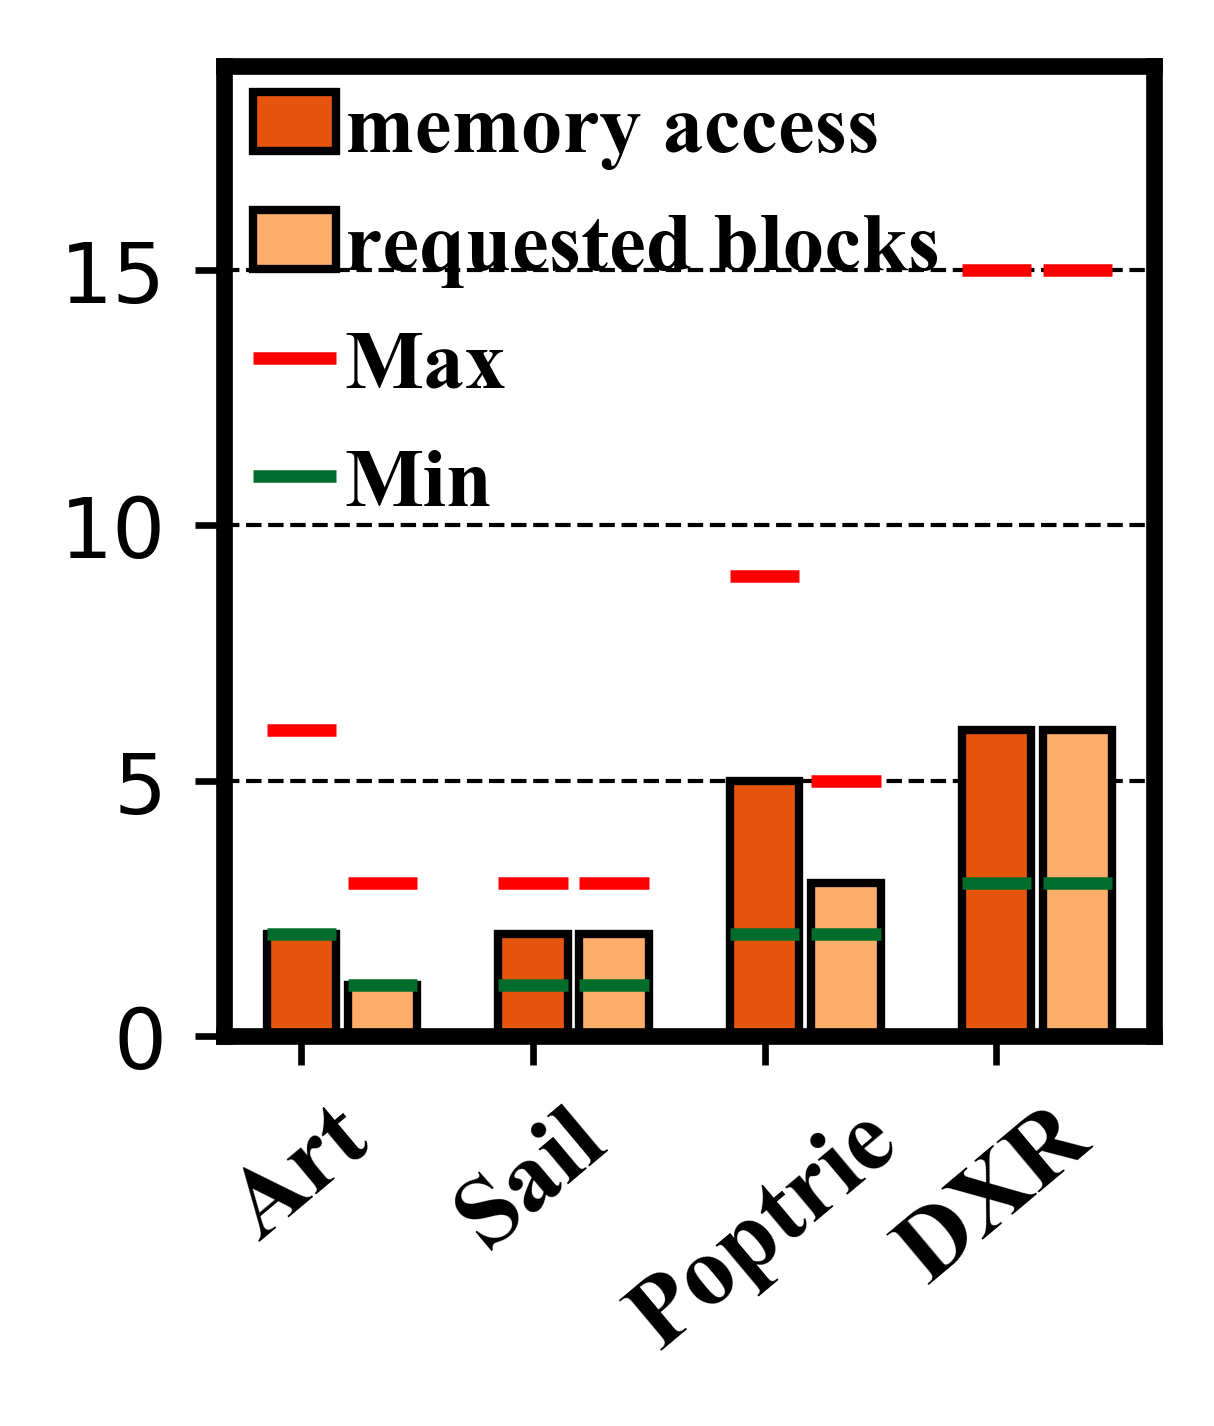
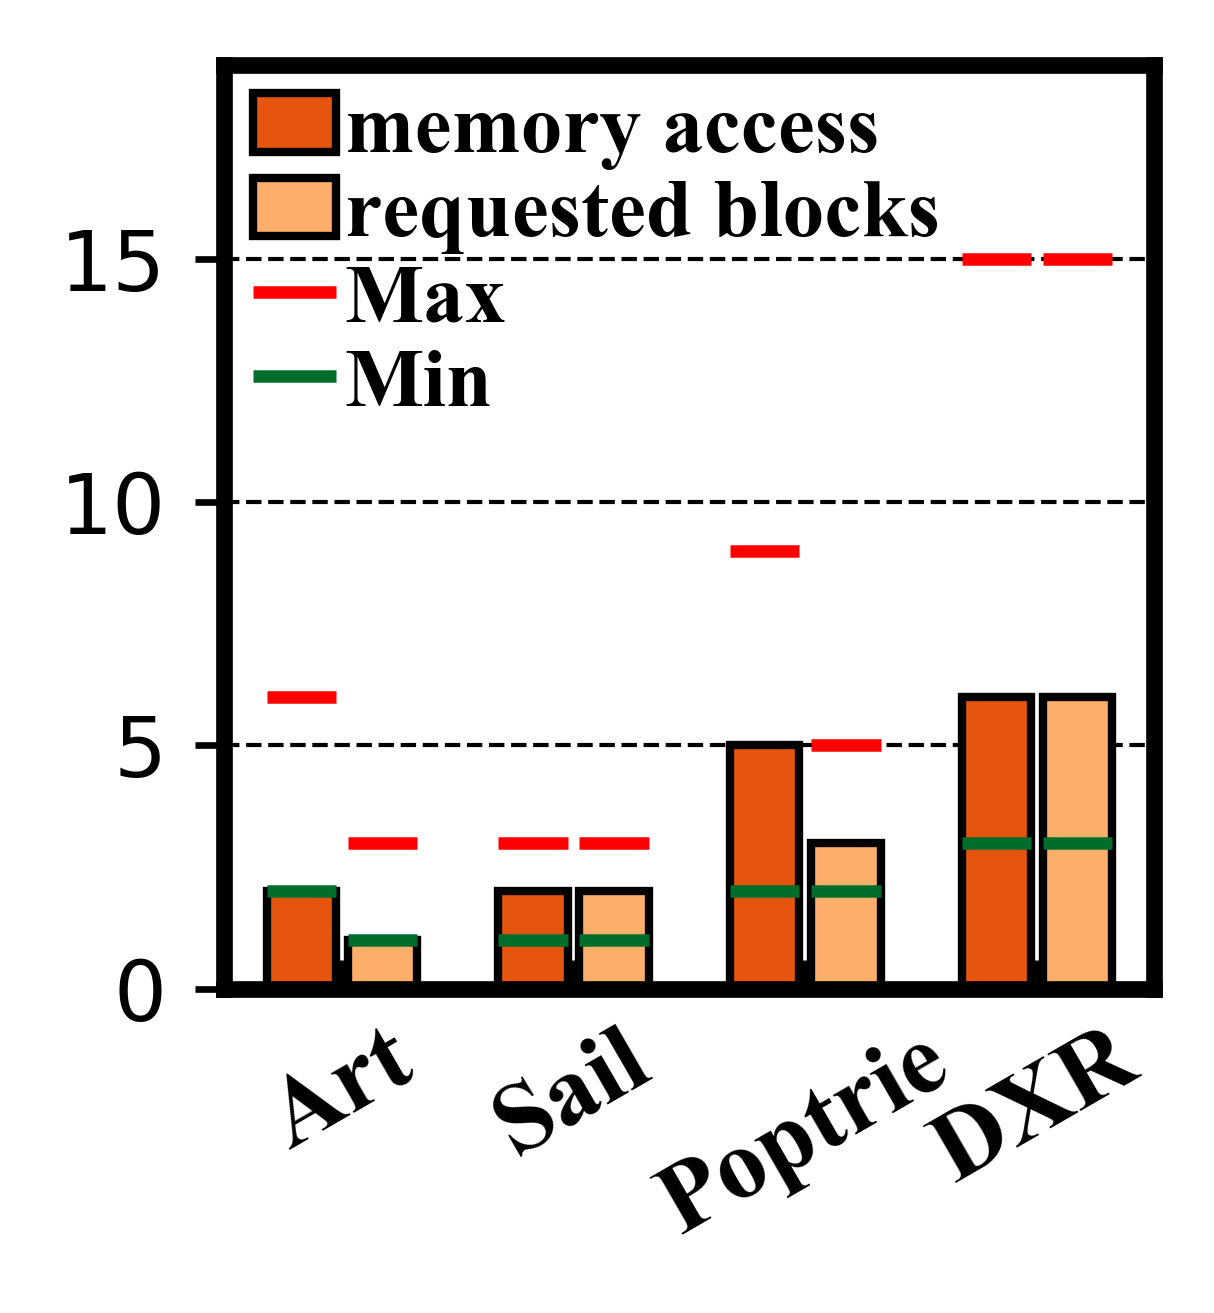
更新plot模块

diff --git a/plot.py b/plot.py
@@ -6,6 +6,7 @@
 import matplotlib.pyplot as plt
 from font import Font
 import matplotlib
+from matplotlib.pyplot import MultipleLocator
 
 pdf_base_dir = 'result/'  # pdf保存的目录
 picture_base_dir = 'example-picture/'  # png格式保存的目录
@@ -52,8 +53,8 @@ class Plot:
         return f
 
     @staticmethod
-    def plot_text(x, y, text, fontsize=20):
-        plt.text(x, y, text, fontsize=fontsize)
+    def plot_text(x, y, text, fontsize=20, rotation=None, wrap=False):
+        plt.text(x, y, text, fontsize=fontsize, rotation=rotation, wrap=wrap)
 
     @staticmethod
     def plot_hlines(y_data, x_start, x_end, colors='black', lienstyles='-', label=None):
@@ -85,29 +86,104 @@ class Plot:
 
     @staticmethod
     def plot_legend(handle, labels, ncol, bbox_to_anchor, loc='best', font_size=12, columnspacing=0.1,
-                    handlelength=1, handletextpad=0.1):
+                    handlelength=1, handletextpad=0.1, labelspacing=None):
+        """
+        绘制图例。
+        参考链接：
+        https://matplotlib.org/api/_as_gen/matplotlib.pyplot.legend.html?highlight=legend#matplotlib.pyplot.legend
+        :param handle: 图例的句柄。
+        :param labels: 显示的标签。这里显示标签的个数应该和句柄的格式是一样的。
+        :param ncol: 显示的列数。
+        :param bbox_to_anchor: 将图例定下锚点。也就是相对位置。传入(x,y)
+        :param loc: 图例显示的大概位置。默认为'best',也就是自动选择。可以选择'upper right'/'upper left'/'lower right'等值。
+        :param font_size: 图例字体大小。
+        :param columnspacing: 每列间隔大小。 适用于多列的情况。
+        :param handlelength: 句柄的长度大小。
+        :param handletextpad: 句柄和标签之间的间隔大小。
+        :param labelspacing: 每行间隔的大小。适用于多行的情况
+        :return:
+        """
         plt.legend(handle, labels, bbox_to_anchor=bbox_to_anchor, ncol=ncol, loc=loc, prop=Font.font(font_size),
                    frameon=False,
-                   columnspacing=columnspacing, handlelength=handlelength, handletextpad=handletextpad)
+                   columnspacing=columnspacing, handlelength=handlelength, handletextpad=handletextpad,
+                   labelspacing=labelspacing)
 
     @staticmethod
     def plot_grid(axis='y', color='black', linewidth=0.5, linestyle='--'):
         plt.grid(axis=axis, color=color, linewidth=linewidth, linestyle=linestyle)
 
+    @staticmethod
+    def plot_xaxis_invisible():
+        """
+        x轴坐标轴不可见。
+        :return:
+        """
+        frame = plt.gca()
+        frame.axes.get_xaxis().set_visible(False)
+
+    @staticmethod
+    def plot_yaxis_invisible():
+        """
+        y轴坐标轴不可见。
+        :return:
+        """
+        frame = plt.gca()
+        frame.axes.get_yaxis().set_visible(False)
+
 
 class Save:
     @staticmethod
     def save_to_pdf(filename, dpi=600):
+        """
+        保存为pdf。
+        :param filename: 文件名。不需要带格式后缀，直接输入文件名即可。
+        :param dpi: 显示的dpi，默认600.
+        :return:
+        """
         plt.savefig(pdf_base_dir + filename + '.pdf', dpi=dpi, bbox_inches='tight')  # 保存为pdf文件
 
     @staticmethod
     def save_to_picture(filename, dpi=600):
+        """
+        保存为png格式。
+        :param filename: 文件名，不需要输入格式后缀。
+        :param dpi: 显示的dpi，默认600.
+        :return:
+        """
         plt.savefig(picture_base_dir + filename + '.png', dpi=dpi, bbox_inches='tight')  # 保存为png文件
 
     @staticmethod
     def save(filename, dpi=600):
+        """
+        直接保存pdf和png两种格式的文件。如果只想保存pdf格式，那么直接使用save_to_pdf()方法；如果只想保存为png图片格式，那么直接使用save_to_picture()方法。
+        :param filename: 文件名，不需要输入格式后缀。
+        :param dpi: 显示的dpi，默认600.
+        :return:
+        """
         Save.save_to_pdf(filename, dpi=dpi)
         Save.save_to_picture(filename, dpi=dpi)
+
+    @staticmethod
+    def set_xtick_gap(x_gap):
+        x_major_locator = MultipleLocator(x_gap)
+        ax = plt.gca()
+        # ax为两条坐标轴的实例
+        ax.xaxis.set_major_locator(x_major_locator)
+
+    @staticmethod
+    def set_ytick_gap(y_gap):
+        y_major_locator = MultipleLocator(y_gap)
+        ax = plt.gca()
+        # ax为两条坐标轴的实例
+        ax.xaxis.set_major_locator(y_major_locator)
+
+    @staticmethod
+    def get_axis():
+        """
+        获取坐标轴实例。
+        :return: 两条坐标轴实例。
+        """
+        return plt.gca()
 
 
 class Color:

diff --git a/example8.py b/example8.py
@@ -6,7 +6,6 @@ from plot import Plot
 from plot import Color
 from plot import Save
 from utils import Utils
-import matplotlib.pyplot as plt
 
 data = Utils.read_csv('example8.csv', only_data=True)
 max_min_data = Utils.read_csv('example8-2.csv', only_data=True)
@@ -17,8 +16,8 @@ m_min = [max_min_data[1][1], max_min_data[2][1], max_min_data[3][1], max_min_dat
 r_max = [max_min_data[1][2], max_min_data[2][2], max_min_data[3][2], max_min_data[4][2]]
 r_min = [max_min_data[1][3], max_min_data[2][3], max_min_data[3][3], max_min_data[4][3]]
 
-Plot.create_figure((2.0, 2.1))
-Plot.plot_setting(111)
+Plot.create_figure((2.0, 2.0))
+Plot.plot_setting(111,xtick_direction='in')
 bar_width = 0.3
 bar_gap=0.05
 bar1=Plot.plot_bar([1, 2, 3, 4], mem_data, color=Color.color[0], bar_width=bar_width)
@@ -31,12 +30,10 @@ x_max_temp=1.5*bar_width+bar_gap
 x_max_index=[1+x_max_temp,2+x_max_temp,3+x_max_temp,4+x_max_temp]
 line1=Plot.plot_hlines(r_max,x_min_index,x_max_index,colors='red')
 line2=Plot.plot_hlines(r_min,x_min_index,x_max_index,colors='#006d2c')
-# line1=plt.hlines(r_max,x_min_index,x_max_index,colors='red',label='Max')
-# line2=plt.hlines(r_min,x_min_index,x_max_index,colors='#006d2c',label='Max')
-Plot.plot_xticks([1,2,3,4],['Art','Sail','Poptrie','DXR'],rotation=40,font_size=12)
+tick_temp=(bar_width+bar_gap)/2
+Plot.plot_xticks([1+tick_temp,2+tick_temp,3+tick_temp,4+tick_temp],['Art','Sail','Poptrie','DXR'],rotation=30,font_size=12)
 Plot.plot_ylim(0,19)
 Plot.plot_grid()
 
-Plot.plot_legend([bar1,bar2,line1,line2],['memory access','requested blocks','Max','Min'],ncol=1,bbox_to_anchor=(-0.05,1.05),loc="upper left",font_size=10)
-
+Plot.plot_legend([bar1,bar2,line1,line2],['memory access','requested blocks','Max','Min'],ncol=1,bbox_to_anchor=(-0.05,1.05),loc="upper left",font_size=10,labelspacing=0.1)
 Save.save('example8')
